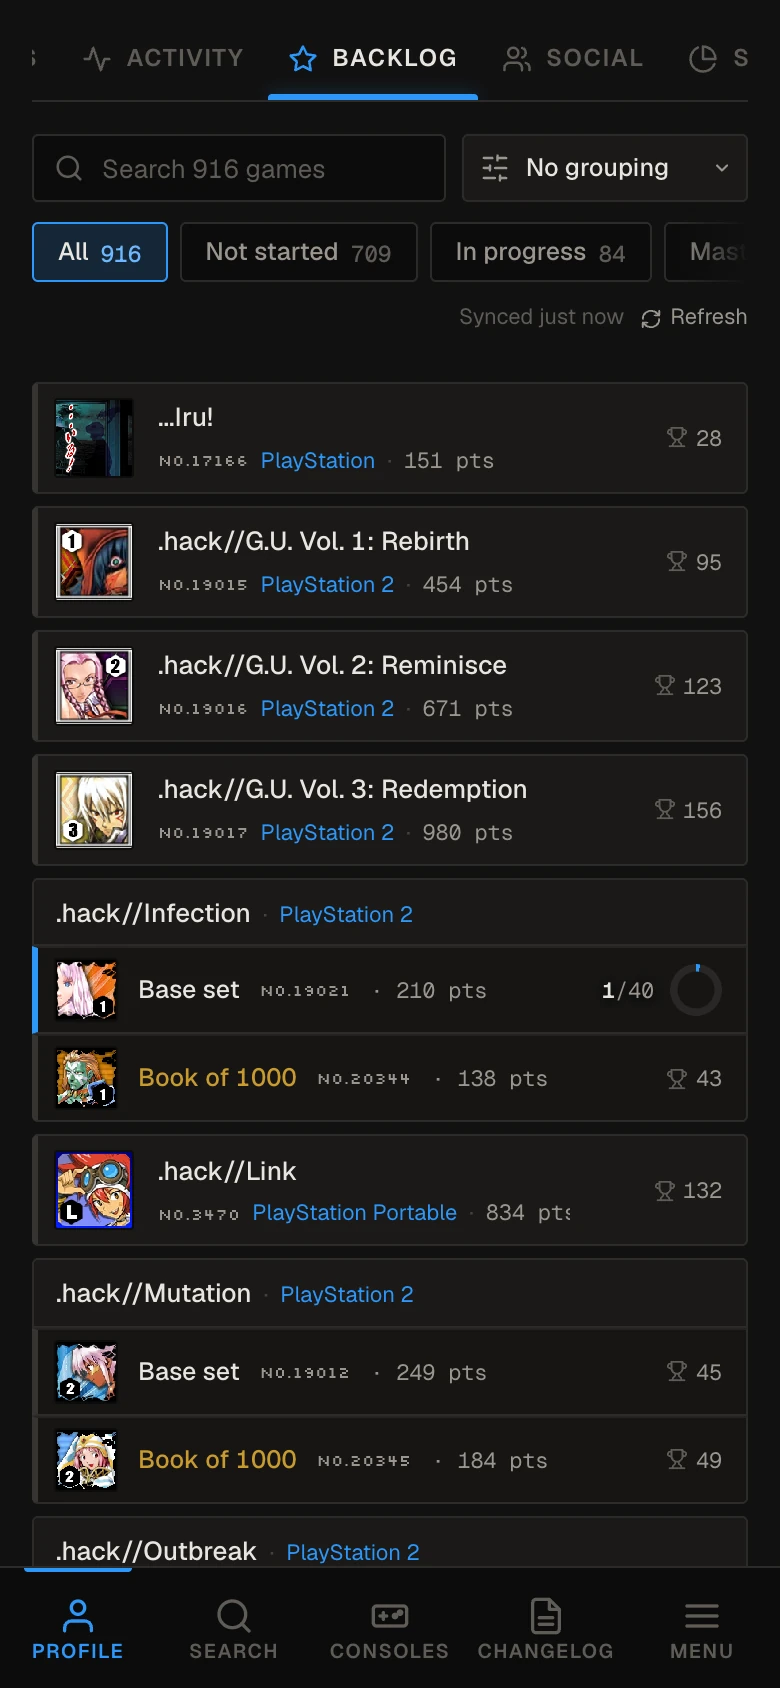
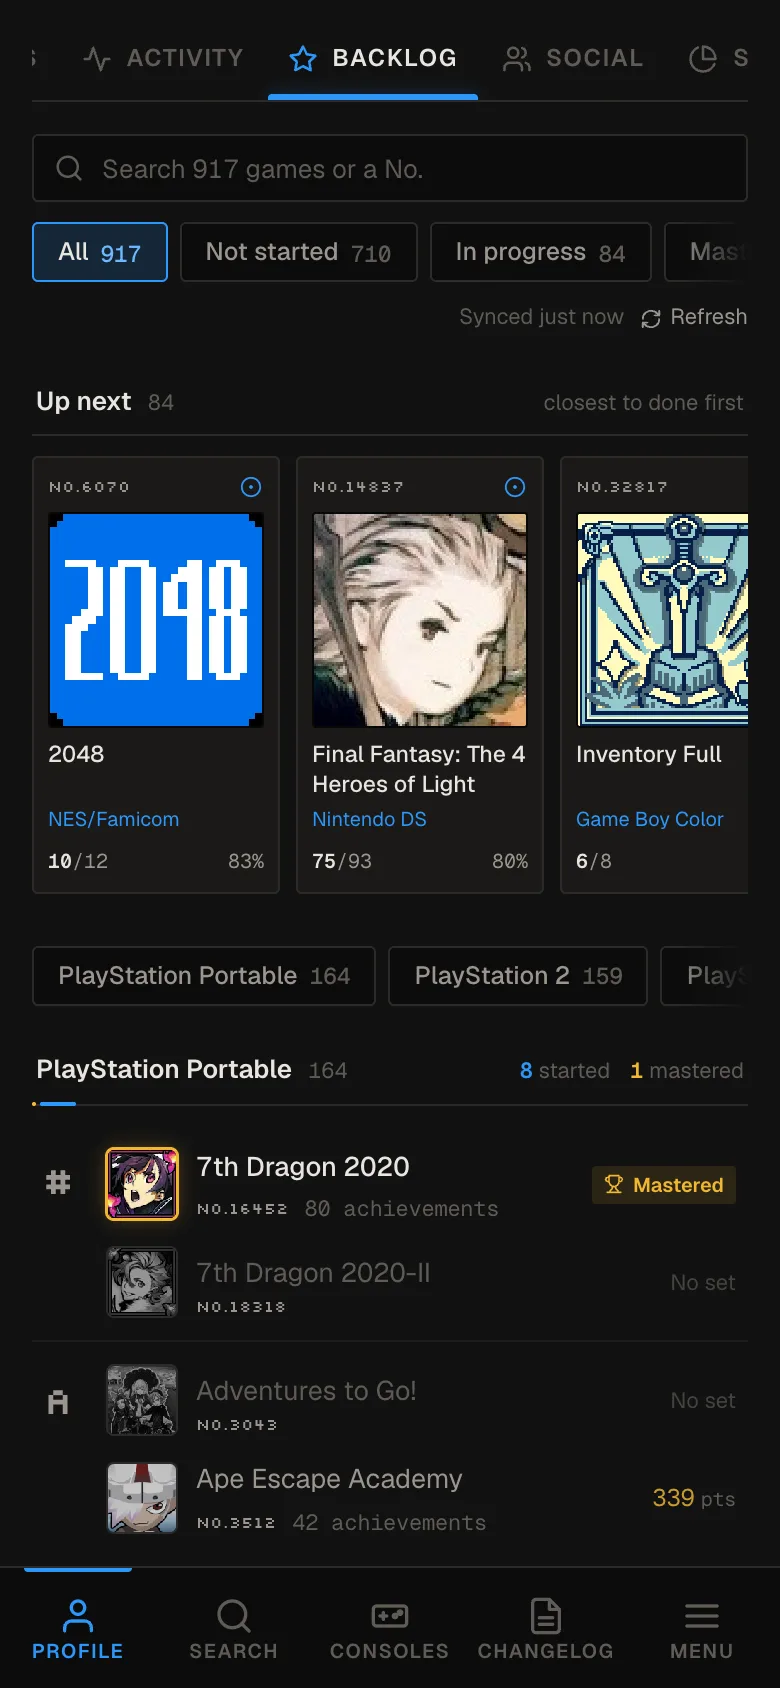
docs: README describes the new Backlog; fresh Backlog screenshot
Claude-Session: https://claude.ai/code/session_01EeEDH1FGz51LdHyJv8MWQV

diff --git a/README.md b/README.md
@@ -26,7 +26,7 @@ Cheevodex reads your [RetroAchievements](https://retroachievements.org) account 
 - **Dex records.** Each game opens as a record: a completion ring (blue in progress, silver beaten, gold mastered), achievements, points and time played, and a progression path with one diamond per progression achievement. Then the achievements themselves, the leaderboards, the community and the supported hashes.
 - **Activity.** The games you moved in the last 14 days, every run of unlocks day by day, a year of streaks and a heatmap.
 - **Friends.** Everyone you follow on one timeline, each in a colour worked out from their name. Compare any shared game side by side.
-- **Backlog.** Your RetroAchievements want-to-play list as a watchlist, subsets stacked under their game.
+- **Backlog.** Your RetroAchievements want-to-play list as an index: the games you have started up next, then every game by console under A to Z, lit up once you start it, with the points on offer for the rest.
 - **Stats.** Streaks, points across the year, masteries by month, consoles and how rare your unlocks are.
 - **Search and consoles.** Find any game across every system RetroAchievements supports, or browse a console's whole library.
 - **Anyone's dex.** Open any RetroAchievements username to read their dex and progress.
